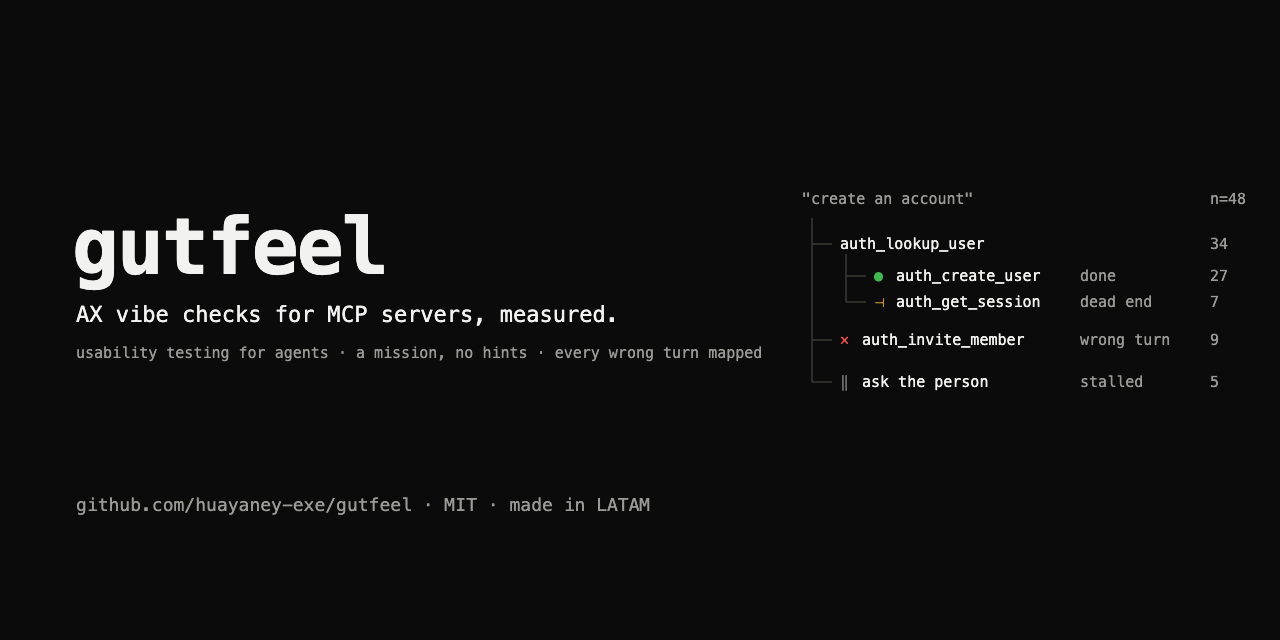
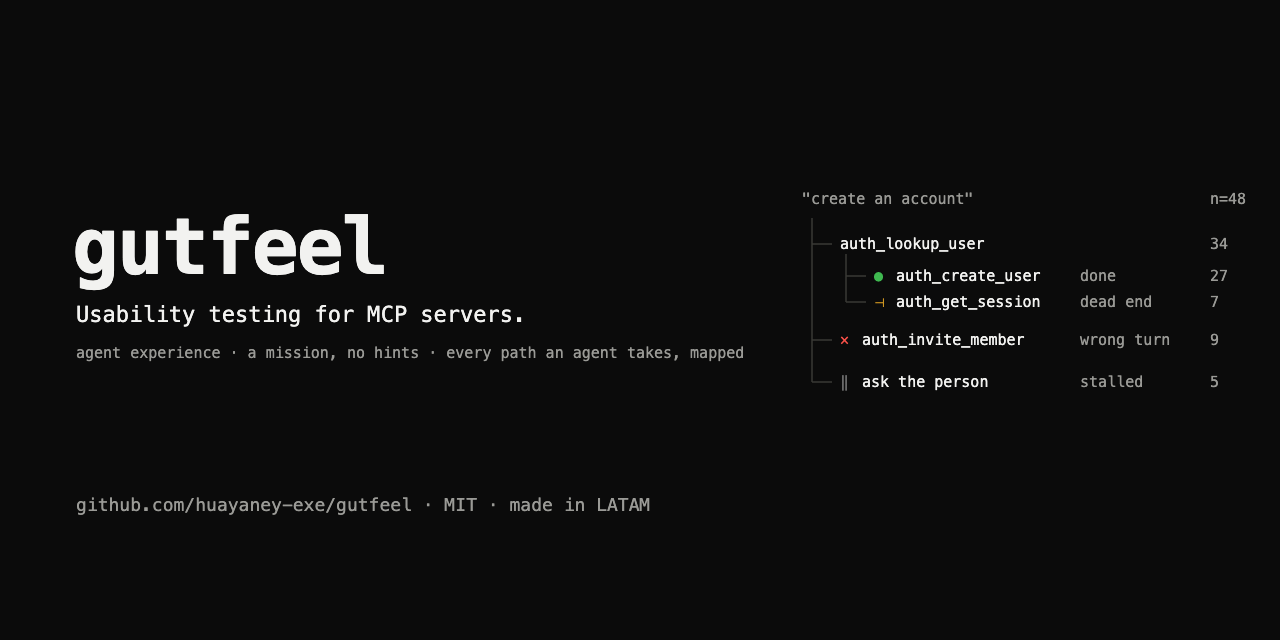
feat(live): click a job to paint only its paths; the repo shows a real run
In the all-jobs flow, picking a job keeps every ribbon on screen but
fades the ones that don't belong to it, so its paths read in context:
counts become this job's walks out of the total through each tool, and
the side panel lists its walks. "only" next to a job still filters the
flow down to it. Metrics follow the highlighted job.

The README hero was a mockup with invented numbers; it's now a real
run with one job highlighted, captioned as pilot data. "Vibe check" is
gone from the vocabulary (banner, README, social preview, About): the
project calls itself what it is, usability testing for MCP servers.

Changed region(s): [[0.0625, 0.5312, 0.5938, 0.5625], [0.0625, 0.4688, 0.4688, 0.5]]

diff --git a/packages/live/walks.js b/packages/live/walks.js
@@ -12,7 +12,7 @@ const NS2 = 'http://www.w3.org/2000/svg';
 const mk = (tag, attrs = {}, parent) => { const e = document.createElementNS(NS2, tag); for (const [k, v] of Object.entries(attrs)) e.setAttribute(k, v); if (parent) parent.appendChild(e); return e; };
 const short = (t) => (t === 'ask_user' ? 'ask the person' : t === 'answer_directly' ? 'reply, no tool' : t === 'stop' ? 'stop' : t.replace(/^pm_/, ''));
 
-let WS = { walks: new Map(), order: [], total: 0, focus: 'all', selected: null, latest: null };
+let WS = { walks: new Map(), order: [], total: 0, focus: 'all', highlight: null, selected: null, latest: null };
 let drawQueued = false;
 
 function W_init() {
@@ -86,29 +86,31 @@ function W_draw() {
   for (const [n, ls] of byA) { ls.sort((p, q) => p.b.y - q.b.y || OUTCOMES.indexOf(p.outcome) - OUTCOMES.indexOf(q.outcome)); let y = n.y; for (const l of ls) { l.y0 = y; y += l.walks.length * unit; } }
   for (const [n, ls] of byB) { ls.sort((p, q) => p.a.y - q.a.y || OUTCOMES.indexOf(p.outcome) - OUTCOMES.indexOf(q.outcome)); let y = n.y; for (const l of ls) { l.y1 = y; y += l.walks.length * unit; } }
   const gRib = mk('g', {}, svg), gNode = mk('g', {}, svg);
-  const sel = WS.selected;
+  const sel = WS.selected ?? (WS.highlight ? new Set(walks.filter((w) => w.job === WS.highlight).map((w) => w.id)) : null);
   for (const l of L) {
     const h = l.walks.length * unit, x0 = l.a.x + barW, x1 = l.b.x, mx = (x0 + x1) / 2;
     const d = `M${x0},${l.y0} C${mx},${l.y0} ${mx},${l.y1} ${x1},${l.y1} L${x1},${l.y1 + h} C${mx},${l.y1 + h} ${mx},${l.y0 + h} ${x0},${l.y0 + h} Z`;
     const on = !sel || l.walks.some((w) => sel.has(w.id));
-    const p = mk('path', { d, fill: OC[l.outcome], 'fill-opacity': on ? 0.42 : 0.08, stroke: 'none', style: 'cursor:pointer' }, gRib);
+    const p = mk('path', { d, fill: OC[l.outcome], 'fill-opacity': on ? (sel ? 0.62 : 0.42) : 0.05, stroke: 'none', style: 'cursor:pointer' }, gRib);
     mk('title', {}, p).textContent = `${l.a.label} → ${l.b.label} · ${l.walks.length} walk${l.walks.length > 1 ? 's' : ''} · ${OL[l.outcome]}`;
     p.onclick = () => W_select(l.walks, `${l.a.label} → ${l.b.label}`);
   }
   for (const m of cols) for (const n of m.values()) {
-    const fill = n.kind === 'outcome' ? OC[n.key] : '#111';
+    const lit = !sel || n.kind === 'root' || n.walks.some((w) => sel.has(w.id));
+    const litN = sel ? n.walks.filter((w) => sel.has(w.id)).length : n.walks.length;
+    const fill = !lit ? '#dcdcd8' : n.kind === 'outcome' ? OC[n.key] : '#111';
     const r = mk('rect', { x: n.x, y: n.y, width: barW, height: n.h, fill, style: 'cursor:pointer' }, gNode);
     r.onclick = () => W_select(n.walks, n.label);
     mk('title', {}, r).textContent = `${n.label} · ${n.walks.length}`;
     const room = n.kind === 'tool' ? Math.max(8, Math.floor((colGap - barW - 34) / 6.6)) : 999;
-    const small = WS.focus === 'all' && n.h < 9 && n.kind === 'tool';
+    const small = WS.focus === 'all' && n.h < 9 && n.kind === 'tool' && !(sel && lit);
     if (small) continue;
     const ty = n.y + Math.min(n.h, 22) / 2 + 4;
-    const t = mk('text', { x: n.x + barW + 5, y: ty, fill: n.kind === 'outcome' ? OC[n.key] : '#111', 'font-size': 11, stroke: '#fafaf9', 'stroke-width': 3, 'paint-order': 'stroke', 'stroke-linejoin': 'round', style: 'cursor:pointer' }, gNode);
+    const t = mk('text', { x: n.x + barW + 5, y: ty, fill: !lit ? '#c4c4c0' : n.kind === 'outcome' ? OC[n.key] : '#111', 'font-size': 11, stroke: '#fafaf9', 'stroke-width': 3, 'paint-order': 'stroke', 'stroke-linejoin': 'round', style: 'cursor:pointer' }, gNode);
     t.onclick = () => W_select(n.walks, n.label);
     const lab = n.label.length > room ? n.label.slice(0, room - 1) + '…' : n.label;
     t.textContent = `${n.kind === 'outcome' ? OG[n.key] + ' ' : ''}${lab}`;
-    const extra = [`${n.walks.length}`];
+    const extra = [sel && lit && n.kind !== 'root' ? `${litN}/${n.walks.length}` : `${n.walks.length}`];
     if (n.err) extra.push(`! ${n.err}`); if (n.dead) extra.push(`⊣ ${n.dead}`);
     const t2 = mk('tspan', { fill: '#9a9a96', dx: 6 }, t); t2.textContent = extra.join(' · ');
     if (WS.latest && n.kind === 'tool' && n.key === WS.latest.chosen && n.c === WS.latest.step && (WS.focus === 'all' || WS.focus === WS.latest.job)) {
@@ -131,16 +133,29 @@ function W_jobs() {
     const calls = ends.length ? (ends.reduce((a, w) => a + w.end.S, 0) / ends.length).toFixed(1) : '—';
     const lost = ends.filter((w) => w.end.lostness != null); const L = lost.length ? (lost.reduce((a, w) => a + w.end.lostness, 0) / lost.length).toFixed(2) : '—';
     const bar = OUTCOMES.map((o) => { const n = ends.filter((w) => w.end.outcome === o).length; return n ? `<i style="display:inline-block;height:4px;width:${(100 * n) / Math.max(ws.length, 1)}%;background:${OC[o]}"></i>` : ''; }).join('');
-    return `<div data-j="${esc(id)}" style="padding:6px 14px;cursor:pointer;${WS.focus === id ? 'background:#f1f1ee;' : ''}">
-      <div style="display:flex;justify-content:space-between"><b style="font-weight:${WS.focus === id ? 700 : 500}">${esc(label)}</b><span style="color:#6b6b6b">${ends.length ? `${ok}/${ends.length}` : ''}</span></div>
+    return `<div data-j="${esc(id)}" style="padding:6px 14px;cursor:pointer;${WS.highlight === id || (WS.focus === id && id !== 'all') ? 'background:#f1f1ee;box-shadow:inset 3px 0 0 #111;' : ''}">
+      <div style="display:flex;justify-content:space-between;gap:6px"><b style="font-weight:${WS.focus === id || WS.highlight === id ? 700 : 500}">${WS.highlight === id ? '▸ ' : ''}${esc(label)}</b><span style="color:#6b6b6b">${ends.length ? `${ok}/${ends.length}` : ''}${id !== 'all' ? ` <span data-only="${esc(id)}" title="show only this job" style="color:${WS.focus === id ? '#111' : '#b9b9b5'};margin-left:6px">only</span>` : ''}</span></div>
       <div style="display:flex;background:#ececea;margin:4px 0 3px">${bar}</div>
       <div style="color:#9a9a96;font-size:10.5px">${ends.length ? `${calls} calls · lostness ${L}` : `${ws.length ? 'running…' : ''}`}</div></div>`;
   };
   box.innerHTML = row('all', 'all jobs', all) + meta.jobs.map((j) => row(j.id, j.id, all.filter((w) => w.job === j.id))).join('');
-  box.querySelectorAll('[data-j]').forEach((d) => d.onclick = () => { WS.focus = d.dataset.j; WS.selected = null; W_draw(); W_metrics(); });
+  box.querySelectorAll('[data-j]').forEach((d) => d.onclick = (ev) => {
+    const id = d.dataset.j;
+    if (ev.target.dataset.only) { WS.focus = WS.focus === id ? 'all' : id; WS.highlight = null; }
+    else if (id === 'all') { WS.focus = 'all'; WS.highlight = null; }
+    else { WS.highlight = WS.highlight === id ? null : id; WS.focus = 'all'; }
+    WS.selected = null; W_draw(); W_metrics();
+    if (WS.highlight) { const ws = walksInFocus().filter((w) => w.job === WS.highlight); W_list(ws, WS.highlight); }
+  });
 }
 
 // ── selection and the trace drawer ──
+function W_list(walks, label) {
+  const rows = walks.map((w) => `<div class="r" data-w="${w.id}" style="cursor:pointer"><span class="g" style="color:${OC[w.end?.outcome ?? 'running']}">${OG[w.end?.outcome ?? 'running']}</span><span class="m">${esc(w.mission)}</span><span>${esc(w.steps.map((s) => short(s.chosen ?? '?')).join(' → '))}</span></div>`).join('');
+  $('now').innerHTML = `<div class="tag">${walks.length} walks · job</div><div class="mission" style="font-family:inherit;font-size:14px">${esc(label)}</div><div style="color:#6b6b6b">its paths are painted on the flow · click a walk to open its full record</div>`;
+  $('feed').innerHTML = rows;
+  $('feed').querySelectorAll('[data-w]').forEach((r) => r.onclick = () => W_trace(Number(r.dataset.w)));
+}
 function W_select(walks, label) {
   WS.selected = new Set(walks.map((w) => w.id)); W_draw();
   const rows = walks.map((w) => `<div class="r" data-w="${w.id}" style="cursor:pointer"><span class="g" style="color:${OC[w.end?.outcome ?? 'running']}">${OG[w.end?.outcome ?? 'running']}</span><span class="m">${esc(w.mission)}</span><span>${w.steps.length}</span></div>`).join('');
@@ -186,7 +201,7 @@ function W_counts() {
     OUTCOMES.filter((o) => c[o]).map((o) => `<span><span class="g" style="color:${OC[o]}">${OG[o]}</span>${o.replace('_', ' ')} <b>${c[o]}</b></span>`).join('');
 }
 function W_metrics() {
-  const ws = walksInFocus(); const ends = ws.filter((w) => w.end).map((w) => w.end);
+  const ws = WS.highlight ? walksInFocus().filter((w) => w.job === WS.highlight) : walksInFocus(); const ends = ws.filter((w) => w.end).map((w) => w.end);
   if (!ends.length) { $('summary').classList.remove('on'); return; }
   const avg = (xs) => (xs.length ? xs.reduce((a, b) => a + b, 0) / xs.length : 0);
   const done = ends.filter((e) => e.outcome === 'done');
@@ -197,7 +212,7 @@ function W_metrics() {
   const lost = ends.filter((e) => e.lostness != null).map((e) => e.lostness);
   const alleys = {}; for (const s of ws.flatMap((w) => w.steps)) if (s.is_error || s.dead_end) { const k = `${s.chosen}|${s.is_error ? '!' : '⊣'}|${(s.result ?? '').replace(/\s+/g, ' ').slice(0, 70)}`; alleys[k] = (alleys[k] ?? 0) + 1; }
   const alleyRows = Object.entries(alleys).sort((a, b) => b[1] - a[1]).slice(0, 5).map(([k, n]) => { const [t, g, msg] = k.split('|'); return `<div class="row" title="${esc(msg)}"><span style="overflow:hidden;text-overflow:ellipsis;white-space:nowrap;max-width:330px"><span class="g invalid">${g}</span>${esc(short(t))} <span style="color:#9a9a96">${esc(msg)}</span></span><b>${n}</b></div>`; }).join('');
-  $('summary').innerHTML = `<h4>${WS.focus === 'all' ? 'all jobs' : esc(WS.focus)} · ${ends.length} walks</h4>
+  $('summary').innerHTML = `<h4>${WS.highlight ? esc(WS.highlight) : WS.focus === 'all' ? 'all jobs' : esc(WS.focus)} · ${ends.length} walks</h4>
     <div class="row"><span>reached the goal</span><span><b>${Math.round((100 * done.length) / ends.length)}%</b> (${done.length}/${ends.length})</span></div>
     <div class="row"><span>calls per walk · to goal · shortest</span><span><b>${avg(ends.map((e) => e.S)).toFixed(2)}</b> · ${avg(done.map((e) => e.S)).toFixed(2)} · ${avg(ends.filter((e) => e.R).map((e) => e.R)).toFixed(1)}</span></div>
     <div class="row"><span>lostness · 0 = shortest path</span><span><b>${avg(lost).toFixed(2)}</b></span></div>
@@ -218,7 +233,7 @@ function W_now(s) {
 
 function W_on(e) {
   if (e.type === 'start') {
-    WS = { walks: new Map(), order: [], total: e.total, focus: WS.focus, selected: null, latest: null }; t0 = e.at;
+    WS = { walks: new Map(), order: [], total: e.total, focus: WS.focus, highlight: WS.highlight, selected: null, latest: null }; t0 = e.at;
     $('feed').innerHTML = ''; $('summary').classList.remove('on'); $('start').disabled = true;
     clearInterval(timer); timer = setInterval(W_counts, 250); W_queue();
   } else if (e.type === 'step') {

diff --git a/README.md b/README.md
@@ -1,7 +1,7 @@
 <p align="center">
   <picture>
     <source media="(prefers-color-scheme: dark)" srcset="docs/assets/banner-dark.svg">
-    <img alt="gutfeel: AX vibe checks for MCP servers, measured" src="docs/assets/banner-light.svg" width="100%">
+    <img alt="gutfeel: usability testing for MCP servers" src="docs/assets/banner-light.svg" width="100%">
   </picture>
 </p>
 
@@ -29,8 +29,8 @@
 What you get is a tree of every path they took: where they found the right tool, took a wrong turn, hit a dead end, got an error, stalled or looped. For each failure it shows the sentence in your descriptions that caused it, and it tests your fix before you ship it.
 
 <p align="center">
-  <img alt="gutfeel report: map tree, walk trees, alley log" src="docs/mockups/report.png" width="100%">
-  <br><sub><b>Design mockup.</b> The tool names are Praxis's real <code>tools/list</code>. Every number and outcome is illustrative, not measured.</sub>
+  <img alt="gutfeel live: 76 real walks through an MCP server, one job highlighted" src="docs/assets/live.png" width="100%">
+  <br><sub><b>A real run.</b> Pilot 002 on Praxis, an MCP server built by Prisma: 76 walks, every call executed in a disposable test tenant. The job <i>catch up on the team</i> is selected: green paths reached the goal, amber ones looped paging through history. Pilot data, not findings: the validation experiments haven't run yet.</sub>
 </p>
 
 > [!IMPORTANT]
@@ -225,7 +225,7 @@ Read the full [method](docs/DESIGN.md#0-method-the-protocol-is-the-product). Eve
 
 ## How we know it works
 
-A measurement nobody has validated is a vibe with a number on it. Before any public report, gutfeel has to pass these experiments, and we publish the results whichever way they go:
+A measurement nobody has validated is a guess with a number on it. Before any public report, gutfeel has to pass these experiments, and we publish the results whichever way they go:
 
 | | Question | Passes if |
 |---|---|---|
@@ -301,7 +301,7 @@ MCP comes first. The core reads a tool list, so OpenAI function calling and agen
 
 <details><summary><b>Why "gutfeel"?</b></summary>
 
-Because the test is your server's first impression on an agent that goes with its gut. And "AX vibe check" deserved an instrument behind it.
+Because the test is your server's first impression on an agent that goes with its gut.
 </details>
 
 ---

diff --git a/docs/PANEL.md b/docs/PANEL.md
@@ -82,7 +82,7 @@ Sources are as the reviewers reported them. **Verify each one before citing it i
 |---|---|---|
 | Headline number | Ecosystem: "% reasoning-dependent" as the badge. Skeptic: confounded. Anthropic: rename it "proxy agreement". | Report it as **panel divergence**, per decision, with the caveat stated. It becomes the badge only if experiment E1 passes. |
 | Praxis on the public reports | Skeptic: exclude it. Ecosystem: report it first, publicly. | Report it first, with no ranking. **Luis decides**, since publishing exposes tool descriptions (anti-distillation rule). Note that any MCP client can already read them. |
-| Buzzwords | Skeptic: cut AX, vibe-check, System 1. Ecosystem: AX and System 1 land; JTBD doesn't. | Keep AX and "vibe-checking" in the hook. Rigor goes in the Validation section. JTBD becomes "task scenarios". Drop "five-second test" and letter grades. |
+| Buzzwords | Skeptic: cut AX, vibe-check, System 1. Ecosystem: AX and System 1 land; JTBD doesn't. | Superseded 2026-10-08: "vibe check" was dropped from the vocabulary as unprofessional; the hook is "Usability testing for MCP servers." Originally: keep AX and "vibe-checking" in the hook. Rigor goes in the Validation section. JTBD becomes "task scenarios". Drop "five-second test" and letter grades. |
 
 ## Experiments that must pass before launch
 
